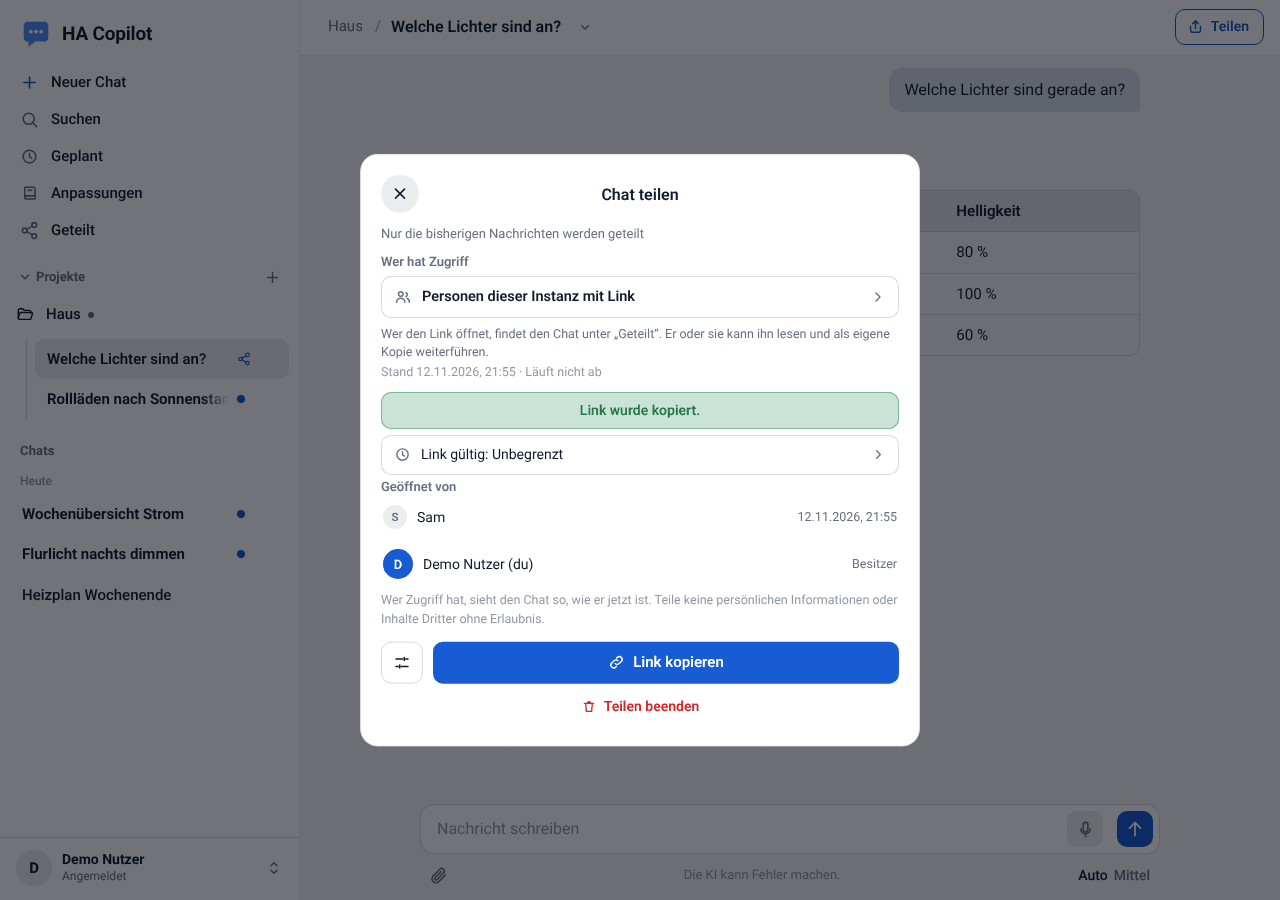
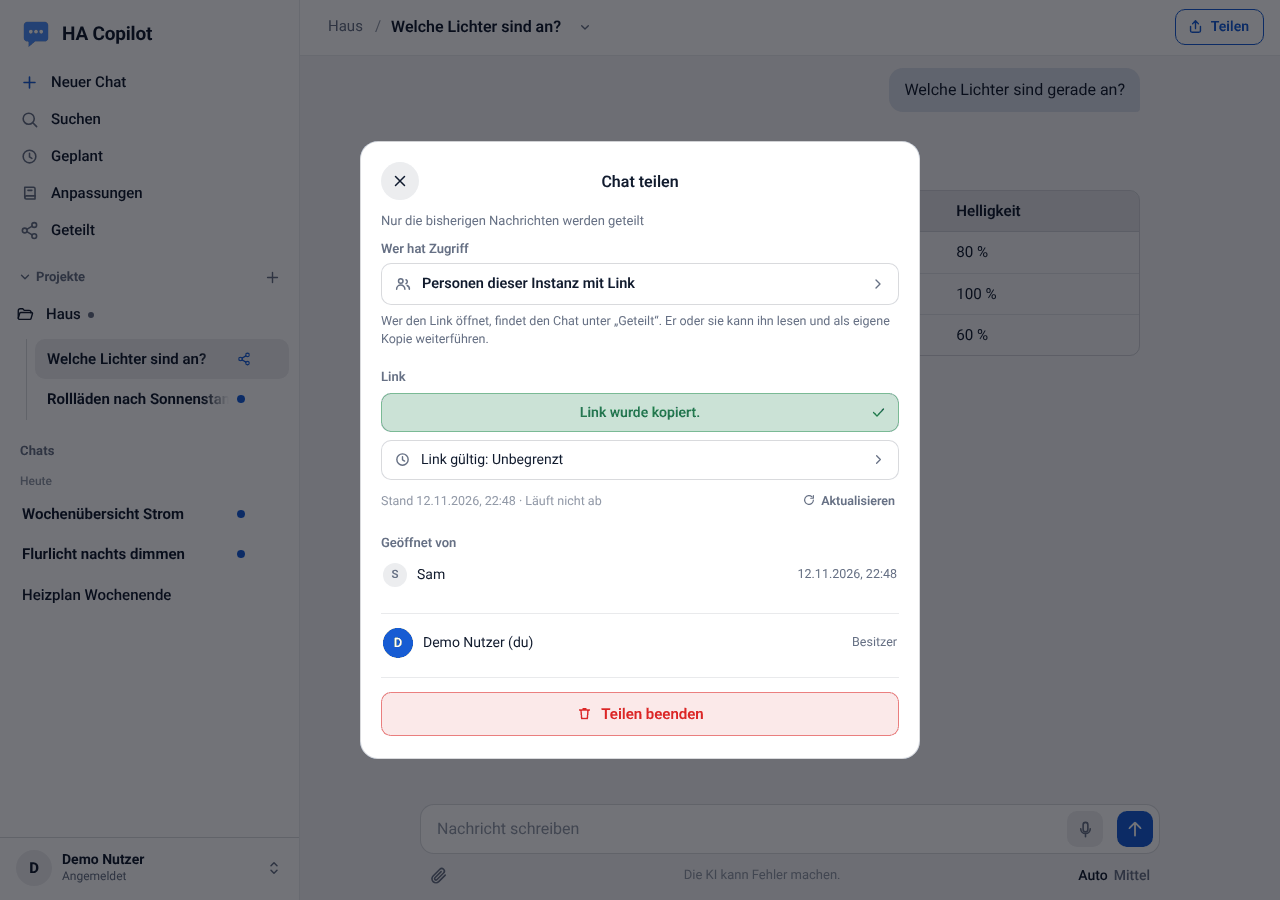
Teilen-Fenster: unterer Bereich aufgeräumt (0.57.1)
- Kopieren per Zwischenablage-Symbol im Linkfeld (Knopf "Link kopieren" und Zahnrad entfallen)
- "Aktualisieren" neben dem Stand, "Teilen beenden" als fester roter Knopf unten (mit Rückfrage)
- Mehr Abstand vor "Abrufe"/"Geöffnet von"; kein seitliches Scrollen mehr
- Docs, Changelog, "Das ist neu", Screenshot chat-teilen.png

Claude-Session: https://claude.ai/code/session_012H4RFtPYg4WGjcVxpmDwqL

Changed region(s): [[0.2812, 0.1556, 0.7188, 0.8711], [0.625, 0.5289, 0.6875, 0.5911]]

diff --git a/copilot/app/static/style.css b/copilot/app/static/style.css
@@ -1360,36 +1360,44 @@ body.voice-open { overflow: hidden; }
 .share-text b { font-size: 14.5px; font-weight: 600; }
 .share-hint { margin: 0; font-size: 12.5px; line-height: 1.4; color: var(--text-2); font-weight: 400; white-space: normal; }
 .share-access + .share-hint { margin-top: 7px; }
-.share-state { margin: 3px 0 0; font-size: 12.5px; color: var(--muted); }
-.share-urlbox { position: relative; margin-top: 10px; }
-.share-url { display: block; width: 100%; box-sizing: border-box; padding: 9px 12px; border: 1px solid var(--line); border-radius: var(--r-2); background: var(--panel-2); color: var(--text); font: 13px/1.3 var(--mono, monospace); }
-.share-urlbox .share-url { cursor: pointer; text-overflow: ellipsis; }
+.share-sec { margin-top: 20px; }
+.share-sec > .share-h { margin: 0 0 6px; }
+.share-sec .share-hint { margin: 0; }
+.share-urlbox { position: relative; }
+.share-url { display: block; width: 100%; box-sizing: border-box; padding: 10px 44px 10px 12px; border: 1px solid var(--line); border-radius: var(--r-2); background: var(--panel-2); color: var(--text); font: 13px/1.3 var(--mono, monospace); text-overflow: ellipsis; }
+.share-urlbox .share-url { cursor: pointer; }
 .share-urlbox.copied .share-url { color: transparent; }
 .share-urlbox.copied .share-url::selection { color: transparent; background: transparent; }
+.share-copy { position: absolute; top: 50%; right: 5px; z-index: 1; display: grid; place-items: center; width: 32px; height: 32px; transform: translateY(-50%); border-radius: 7px; color: var(--text-2); transition: background .15s, color .15s; }
+.share-copy:hover { background: var(--chip); color: var(--text); }
+.share-copy .icon { grid-area: 1 / 1; width: 17px; height: 17px; }
+.share-copy .icon + .icon { display: none; color: color-mix(in srgb, var(--ok, #2e9d5b) 70%, var(--text)); }
+.share-urlbox.copied .share-copy .icon:first-child { display: none; }
+.share-urlbox.copied .share-copy .icon + .icon { display: block; }
 .share-copied { position: absolute; inset: 0; display: flex; align-items: center; justify-content: center; border-radius: var(--r-2); border: 1px solid color-mix(in srgb, var(--ok, #2e9d5b) 45%, transparent); background: color-mix(in srgb, var(--ok, #2e9d5b) 20%, transparent); color: color-mix(in srgb, var(--ok, #2e9d5b) 70%, var(--text)); font-size: 14px; font-weight: 600; opacity: 0; pointer-events: none; transition: opacity .2s; }
 .share-urlbox.copied .share-copied { opacity: 1; }
-.share-expiry { display: flex; align-items: center; gap: 10px; width: 100%; box-sizing: border-box; min-height: 40px; margin-top: 6px; padding: 0 12px; border: 1px solid var(--line-2); border-radius: var(--r-2); background: var(--panel); color: var(--text); font-size: 14px; text-align: left; transition: background .15s; }
+.share-expiry { display: flex; align-items: center; gap: 10px; width: 100%; box-sizing: border-box; min-height: 40px; margin-top: 8px; padding: 0 12px; border: 1px solid var(--line-2); border-radius: var(--r-2); background: var(--panel); color: var(--text); font-size: 14px; text-align: left; transition: background .15s; }
 .share-expiry:hover { background: var(--chip); }
 .share-expiry .icon:first-child { width: 17px; height: 17px; color: var(--text-2); }
 .share-expiry span { flex: 1; }
 .share-expiry .icon:last-child { width: 15px; height: 15px; color: var(--text-2); }
-.share-viewer, .share-owner { display: flex; align-items: center; gap: 10px; padding: 4px 2px; }
-.share-owner { margin-top: 12px; }
+.share-stand { display: flex; align-items: center; justify-content: space-between; gap: 10px; margin-top: 8px; font-size: 12.5px; line-height: 1.4; color: var(--muted); }
+.share-refresh { display: inline-flex; align-items: center; gap: 5px; flex: none; padding: 4px 8px; margin-right: -4px; border-radius: 7px; color: var(--text-2); font-size: 12.5px; font-weight: 600; transition: background .15s, color .15s; }
+.share-refresh:hover { background: var(--chip); color: var(--text); }
+.share-refresh .icon { width: 14px; height: 14px; }
+.share-viewer { display: flex; align-items: center; gap: 10px; padding: 4px 2px; }
+.share-owner { display: flex; align-items: center; gap: 10px; margin-top: 22px; padding: 14px 2px 0; border-top: 1px solid var(--line); }
 .share-avatar { display: grid; place-items: center; flex: none; width: 30px; height: 30px; border-radius: 50%; background: var(--accent); color: var(--on-accent); font-size: 13px; font-weight: 600; }
 .share-avatar.small { width: 24px; height: 24px; font-size: 11.5px; background: var(--chip); color: var(--text-2); }
 .share-name { flex: 1; min-width: 0; overflow: hidden; text-overflow: ellipsis; white-space: nowrap; font-size: 14px; }
 .share-role { flex: none; font-size: 12.5px; color: var(--text-2); }
-.share-note { margin: 8px 0 0; font-size: 12.5px; line-height: 1.45; color: var(--muted); }
-.share-foot { display: flex; flex-direction: column; gap: 6px; margin-top: 8px; }
-.share-foot-row { display: flex; align-items: center; gap: 10px; }
-.share-gear { display: grid; place-items: center; flex: none; width: 42px; height: 42px; border-radius: var(--r-2); border: 1px solid var(--line-2); color: var(--text); transition: background .15s; }
-.share-gear:hover { background: var(--chip); }
-.share-gear .icon { width: 18px; height: 18px; }
-.share-main { flex: 1; min-width: 0; justify-content: center; gap: 8px; height: 42px; }
-.share-main .icon { width: 17px; height: 17px; }
-.share-end { display: inline-flex; align-items: center; justify-content: center; gap: 7px; align-self: center; height: 34px; padding: 0 12px; border-radius: var(--r-2); color: var(--danger); font-size: 14px; font-weight: 600; transition: background .15s; }
-.share-end:hover, .share-end:focus-visible { background: color-mix(in srgb, var(--danger) 12%, transparent); }
-.share-end .icon { width: 16px; height: 16px; }
+.share-note { margin: 10px 0 0; font-size: 12.5px; line-height: 1.45; color: var(--muted); }
+.share-foot { margin-top: 12px; padding-top: 14px; border-top: 1px solid var(--line); }
+.share-main { width: 100%; justify-content: center; height: 44px; }
+.share-end { display: flex; align-items: center; justify-content: center; gap: 8px; width: 100%; height: 44px; border-radius: var(--r-2); border: 1px solid color-mix(in srgb, var(--danger) 55%, transparent); background: color-mix(in srgb, var(--danger) 10%, transparent); color: var(--danger); font-size: 15px; font-weight: 600; transition: background .15s, color .15s; }
+.share-end:hover, .share-end:focus-visible { background: color-mix(in srgb, var(--danger) 18%, transparent); }
+.share-end.armed { background: var(--danger); border-color: var(--danger); color: #fff; }
+.share-end .icon { width: 17px; height: 17px; }
 /* „Geteilt“ */
 .sheet-panel.shared-panel { padding: 2px 4px 4px; margin-left: -4px; margin-right: -4px; }
 .shared-list { display: flex; flex-direction: column; gap: 2px; }

diff --git a/copilot/app/static/app.js b/copilot/app/static/app.js
@@ -6401,15 +6401,20 @@ async function drawSharePanel(body, chat, view = { open: false }) {
       nodes.push(node("p", "share-hint", tr("Niemand sonst sieht diesen Chat. Wähle oben, wie du ihn teilen willst.")));
     } else {
       nodes.push(node("p", "share-hint", current.hint));
-      const until = shared.expires_at ? tr("Gültig bis {0}", exactTime(shared.expires_at)) : tr("Läuft nicht ab");
-      nodes.push(node("p", "share-state", `${tr("Stand {0}", exactTime(shared.taken_at))} · ${until}`));
-      // Link: Ein Klick kopiert ihn und meldet es im Feld.
+      // Link: Ein Klick auf das Feld oder das Symbol kopiert ihn und meldet es im Feld.
+      const link = node("section", "share-sec");
+      link.append(node("p", "share-h", tr("Link")));
       const box = node("div", "share-urlbox");
       const field = node("input", "share-url");
       field.type = "text";
       field.readOnly = true;
       field.value = shareLinkOf(shared);
       field.setAttribute("aria-label", tr("Link"));
+      const copy = node("button", "share-copy");
+      copy.type = "button";
+      copy.setAttribute("aria-label", tr("Link kopieren"));
+      copy.title = tr("Link kopieren");
+      copy.append(icon("copy"), icon("check"));
       const done = node("span", "share-copied", tr("Link wurde kopiert."));
       done.setAttribute("role", "status");
       let hideTimer = 0;
@@ -6423,16 +6428,25 @@ async function drawSharePanel(body, chat, view = { open: false }) {
         hideTimer = setTimeout(() => box.classList.remove("copied"), 1800);
       };
       field.addEventListener("click", copyLink);
-      box.append(field, done);
-      body.copyLink = copyLink;
+      copy.addEventListener("click", copyLink);
+      box.append(field, copy, done);
       const expiry = node("button", "share-expiry");
       expiry.type = "button";
       expiry.setAttribute("aria-haspopup", "menu");
       expiry.append(icon("clock"), node("span", "", tr("Link gültig: {0}", expiryLabel(shared.expires_at))), icon("chevron"));
       expiry.addEventListener("click", () => pickExpiry(expiry, data));
-      nodes.push(box, expiry);
+      const until = shared.expires_at ? tr("Gültig bis {0}", exactTime(shared.expires_at)) : tr("Läuft nicht ab");
+      const stand = node("div", "share-stand");
+      const refresh = node("button", "share-refresh");
+      refresh.type = "button";
+      refresh.append(icon("refresh"), node("span", "", tr("Aktualisieren")));
+      refresh.title = tr("Stand aktualisieren");
+      refresh.addEventListener("click", () => run(() => post({ mode: shared.mode }, "/refresh"), tr("Stand aktualisiert.")));
+      stand.append(node("span", "", `${tr("Stand {0}", exactTime(shared.taken_at))} · ${until}`), refresh);
+      link.append(box, expiry, stand);
+      nodes.push(link);
       // Wer hat den Link geöffnet?
-      const seen = node("div", "share-seen");
+      const seen = node("section", "share-sec share-seen");
       if (level === "public") {
         seen.append(node("p", "share-h", tr("Abrufe")), node("p", "share-hint", shared.opens ? tr("Der Link wurde {0} Mal abgerufen.", shared.opens) : tr("Der Link wurde noch nicht abgerufen.")));
       } else {
@@ -6456,40 +6470,30 @@ async function drawSharePanel(body, chat, view = { open: false }) {
     scroll.append(...nodes);
 
     const foot = node("div", "share-foot");
-    const row = node("div", "share-foot-row");
     if (shared) {
-      const gear = node("button", "share-gear");
-      gear.type = "button";
-      gear.setAttribute("aria-label", tr("Einstellungen zum Teilen"));
-      gear.title = tr("Einstellungen zum Teilen");
-      gear.append(icon("sliders"));
-      gear.addEventListener("click", async () => {
-        const choice = await openPopover(gear, [
-          { value: "refresh", icon: "refresh", label: tr("Stand aktualisieren") },
-          { value: "expiry", icon: "clock", label: tr("Gültigkeit des Links …") },
-        ]);
-        if (choice === "refresh") await run(() => post({ mode: shared.mode }, "/refresh"), tr("Stand aktualisiert."));
-        else if (choice === "expiry") await pickExpiry(gear, data);
-      });
-      row.append(gear);
-    }
-    const main = node("button", "pill primary share-main");
-    main.type = "button";
-    if (shared) {
-      main.append(icon("link"), node("span", "", tr("Link kopieren")));
-      main.addEventListener("click", () => body.copyLink?.());
-    } else {
-      main.append(node("span", "", tr("Fertig")));
-      main.addEventListener("click", () => closeSheet(true));
-    }
-    row.append(main);
-    foot.append(row);
-    if (shared) {
+      // Teilen beenden: Beim ersten Klick fragt der Knopf nach, beim zweiten (innerhalb von 4 Sekunden) beendet er.
       const end = node("button", "share-end");
       end.type = "button";
-      end.append(icon("trash"), node("span", "", tr("Teilen beenden")));
-      end.addEventListener("click", () => run(async () => { if (data.public) await del("public"); if (data.instance) await del("instance"); }, tr("Nicht mehr geteilt.")));
+      const label = node("span", "", tr("Teilen beenden"));
+      end.append(icon("trash"), label);
+      let armed = 0;
+      end.addEventListener("click", () => {
+        if (!armed) {
+          end.classList.add("armed");
+          label.textContent = tr("Wirklich beenden?");
+          armed = setTimeout(() => { armed = 0; end.classList.remove("armed"); label.textContent = tr("Teilen beenden"); }, 4000);
+          return;
+        }
+        clearTimeout(armed);
+        run(async () => { if (data.public) await del("public"); if (data.instance) await del("instance"); }, tr("Nicht mehr geteilt."));
+      });
       foot.append(end);
+    } else {
+      const main = node("button", "pill primary share-main");
+      main.type = "button";
+      main.append(node("span", "", tr("Fertig")));
+      main.addEventListener("click", () => closeSheet(true));
+      foot.append(main);
     }
     body.replaceChildren(scroll, foot);
   }

diff --git a/copilot/DOCS.md b/copilot/DOCS.md
@@ -2,7 +2,7 @@
 
 Privater KI-Chat für Home Assistant. Jedes Profil hat eigene Chats, die für andere Profile unsichtbar sind.
 
-**Stand: 0.57.0.** Was in welcher Version neu ist, steht im Reiter „Änderungsprotokoll“.
+**Stand: 0.57.1.** Was in welcher Version neu ist, steht im Reiter „Änderungsprotokoll“.
 
 **Schnellzugriff (Dokumentation im Repository, mit Bildern):**
 [Installation](https://github.com/dominikramachers/HA-Copilot/blob/main/docs/installation.md) ·
@@ -498,7 +498,7 @@ Das Fenster **Chat teilen** (ab 0.57.0 kompakter, die Knöpfe unten bleiben beim
 - **Personen dieser Instanz mit Link:** Der Link (`<public_base_url>/?share=<Code>`; ohne Domain-Zugang die Adresse der Oberfläche) funktioniert nur für angemeldete Personen. **Wer ihn öffnet**, bekommt den Chat unter **Geteilt** (Abschnitt „Mit mir geteilt“, mit „Stand vom …“), kann ihn lesen und **als Kopie weiterführen**. Ohne Link sieht niemand den Chat. Die Person kann ihn mit dem roten **Mülleimer** (beim Darüberfahren) wieder aus ihrer Liste entfernen; der Link holt ihn zurück. Wer den Link angeklickt hat, steht beim Besitzer im Fenster unter **Geöffnet von** (Name, zuletzt geöffnet, Anzahl). Wird der Link nicht über die Adresse geöffnet (zum Beispiel in Home Assistant), hilft in **Geteilt** der Knopf **Link einfügen** (Link oder nur der Code). Die Kopie ist ein eigener Chat der Person, der vom Original unabhängig ist; Aktionen darin fragen immer erst nach, weil der Inhalt von jemand anderem stammt.
 - **Jede Person mit dem Link** (nur mit `chat.sharing: public` und gesetzter `domain.public_base_url`; sonst bleibt die Zeile sichtbar, ist aber ausgegraut und sagt, was fehlt): ein langer, nicht erratbarer Link (`…/s/<43 Zeichen>`), den jede Person ohne Anmeldung öffnen kann, nur zum Lesen. Das Fenster zählt die **Abrufe** (jedes Laden des Inhalts; wer es war, ist nicht bekannt). Er hängt nur an der Domain-Seite, nicht an Home Assistant. Die Seite wird mit der strengen Content-Security-Policy ausgeliefert, ist für Suchmaschinen gesperrt (`noindex`), wird nicht zwischengespeichert, und Anfragen sind je Adresse begrenzt. Ein falscher, beendeter oder abgelaufener Link zeigt eine Meldung. Leite den Link nur an Menschen weiter, denen du den Inhalt zeigen willst: Wer ihn hat, liest alles in dem Schnappschuss.
 
-Bei geteiltem Chat zeigt das Fenster darunter den **Link** (ein Klick darauf kopiert ihn und meldet „Link wurde kopiert.“ im Feld; derselbe Zweck hat der Knopf **Link kopieren**), die Zeile **Link gültig: …** (Klick: 7 Tage, 30 Tage oder unbegrenzt; Standard 30 Tage beim öffentlichen Link, unbegrenzt in der Instanz; eine neue Gültigkeit nimmt auch einen neuen Schnappschuss) und den Stand. Das **Zahnrad** bietet **Stand aktualisieren** (gleicher Link, gleiche Personen) und **Gültigkeit des Links …**, und **Teilen beenden** (rot) nimmt alle Freigaben des Chats zurück. Der Wechsel zwischen den beiden Wegen erzeugt einen neuen Link; der alte gilt dann nicht mehr. Eine Begrenzung der Abrufe je Link gibt es bewusst nicht. Eine Freigabe ist ein **Schnappschuss**: Der Text der Nachrichten zum Zeitpunkt des Teilens, ohne Anhänge, Protokoll der Werkzeuge und Gedächtnis-Hinweise. Spätere Nachrichten sind nicht enthalten.
+Bei geteiltem Chat zeigt das Fenster darunter den **Link** in einem Feld; das Symbol **Zwischenablage** rechts im Feld (oder ein Klick auf den Link) kopiert ihn und meldet „Link wurde kopiert.“ im Feld. Darunter steht die Zeile **Link gültig: …** (Klick: 7 Tage, 30 Tage oder unbegrenzt; Standard 30 Tage beim öffentlichen Link, unbegrenzt in der Instanz; eine neue Gültigkeit nimmt auch einen neuen Schnappschuss), dann der Stand mit **Aktualisieren** (gleicher Link, gleiche Personen, neuer Schnappschuss) und mit Abstand **Geöffnet von** beziehungsweise **Abrufe**. Ganz unten steht, immer sichtbar, der rote Knopf **Teilen beenden**: Der erste Klick fragt „Wirklich beenden?“, der zweite nimmt alle Freigaben des Chats zurück. Der Wechsel zwischen den beiden Wegen erzeugt einen neuen Link; der alte gilt dann nicht mehr. Eine Begrenzung der Abrufe je Link gibt es bewusst nicht. Eine Freigabe ist ein **Schnappschuss**: Der Text der Nachrichten zum Zeitpunkt des Teilens, ohne Anhänge, Protokoll der Werkzeuge und Gedächtnis-Hinweise. Spätere Nachrichten sind nicht enthalten.
 
 **Wo man Geteiltes findet:** In der Chatliste trägt ein geteilter Chat ein kleines **Teilen-Symbol** (`GET /api/chats` liefert dafür das Feld `shared`). In der Seitenleiste steht der Eintrag **Geteilt** immer (solange Teilen erlaubt ist). Er listet **Mit mir geteilt** (Person, Stand, roter Mülleimer zum Entfernen; Klick öffnet den Lesemodus) und **Von mir geteilt** (mit Projekt und Weg; Klick öffnet den Chat). Hat dir niemand etwas geteilt, steht dort nur „Es wurde nichts mit dir geteilt.“ Er ist bewusst allgemein benannt, damit später auch andere teilbare Dinge (z. B. Artefakte) dort stehen können. Technik: Tabelle `share_access` (wer welchen Link geöffnet hat, Datenbankschema 24), Spalte `chat_shares.opens`; Schnittstellen `POST /api/shared/open` (Link oder Code), `DELETE /api/shared/{id}`, `GET /api/shared` (nur geöffnete), `GET /api/shared/{id}` und `…/copy` nur mit geöffnetem Link.
 

diff --git a/copilot/CHANGELOG.md b/copilot/CHANGELOG.md
@@ -1,5 +1,15 @@
 # Änderungen
 
+## 0.57.1
+Teilen-Fenster: unterer Bereich aufgeräumt. Keine Änderung an Daten oder Schnittstellen.
+- **Kopieren im Linkfeld.** Der Knopf **Link kopieren** und das Zahnrad entfallen. Rechts im Linkfeld sitzt ein Zwischenablage-Symbol (`.share-copy`, wird kurz zum Haken); ein Klick auf den Link kopiert weiterhin, beides meldet „Link wurde kopiert.“ im Feld. Die Auswahl im Feld wird danach aufgehoben, damit der Text nicht durch die grüne Meldung scheint.
+- **Aktualisieren** steht als eigener Knopf neben der Zeile „Stand …“ (`POST /api/chats/{id}/share/refresh`, wie bisher), nicht mehr im Zahnrad-Menü.
+- **Teilen beenden** ist der feste, rote Knopf unten im Fenster (ersetzt „Link kopieren“). Er fragt einmal nach („Wirklich beenden?“, fällt nach 4 Sekunden zurück). Ist nichts geteilt, steht dort **Fertig**.
+- **Mehr Abstand** zwischen Gültigkeit und **Abrufe** beziehungsweise **Geöffnet von** (`.share-sec`, 20 px), ebenso vor der Zeile des Besitzers.
+- **Kein seitliches Scrollen** im scrollenden Mittelteil (`.share-refresh` ragte 4 px über den Rand).
+- **Texte:** neu „Aktualisieren“ und „Wirklich beenden?“ (`en-ui.json`); „Einstellungen zum Teilen“ und „Gültigkeit des Links …“ entfallen.
+- **Prüfung:** Browserprüfung (Playwright) auf Computer und Handy, hell und dunkel: Kopieren, Gültigkeit, Aktualisieren, Beenden mit Rückfrage, kein Überlauf. Screenshot `chat-teilen.png` neu.
+
 ## 0.57.0
 Teilen überarbeitet: Freigaben in der Instanz gibt es nur noch mit Link, der Besitzer sieht, wer ihn geöffnet hat, und das Fenster ist kompakter. Datenbankschema 24 (nur Ergänzungen).
 - **Freigabe in der Instanz nur mit Link.** Bisher sah jede angemeldete Person einen in der Instanz geteilten Chat. Jetzt gibt es einen Link (`<public_base_url>/?share=<Code>`, ohne Domain die Adresse der Oberfläche; der Code ist der 43 Zeichen lange Wert `chat_shares.token`). **Wer ihn öffnet** (Adresse mit `?share=`, wird danach aus der Adresszeile entfernt), bekommt den Chat unter **Geteilt** (Tabelle `share_access`: `share_id`, `profile_id`, `first_at`, `last_at`, `opens`), mit „Stand vom …“ und einem roten **Mülleimer** zum Entfernen (`DELETE /api/shared/{id}`; der Link holt ihn zurück). Lesen (`GET /api/shared/{id}`) und Kopieren (`…/copy`) gehen nur mit geöffnetem Link oder als Besitzer. `POST /api/shared/open` nimmt Link oder Code. In **Geteilt** gibt es **Link einfügen** für Fälle, in denen die Adresse nicht greift (zum Beispiel Home Assistant). Nach dem Update gilt ein früher in der Instanz geteilter Chat nur noch für Personen, die seinen Link öffnen (Link im Teilen-Fenster ansehen und weitergeben).

diff --git a/docs/funktionen.md b/docs/funktionen.md
@@ -15,7 +15,7 @@ Ein Überblick über alles, was HA Copilot kann, mit den Einstellungen, die dazu
 ![Inkognito-Chat](screenshots/inkognito.png)
 
 - **Kopfzeile wie in Claude:** Über dem Chat steht **Projekt / Chatname ▾**: Klick auf den Namen = umbenennen, Pfeil = Chat-Menü, rechts der Knopf **Teilen**.
-- **Chats teilen:** Im Fenster **Chat teilen** wählst du unter **Wer hat Zugriff**: einen Link nur für Personen dieser Instanz (wer ihn öffnet, findet den Chat unter **Geteilt**, du siehst unter **Geöffnet von**, wer das war) oder einen Link für jede Person (ohne Anmeldung, nur lesen; `chat.sharing: public`). Ein Klick auf den Link kopiert ihn, die Gültigkeit (7 Tage, 30 Tage, unbegrenzt) stellst du direkt im Fenster ein, **Teilen beenden** nimmt alles zurück. Geteilte Chats tragen in der Liste ein kleines Symbol; **Geteilt** steht immer in der Seitenleiste (mit mir und von mir, mit rotem Mülleimer zum Entfernen). Geteilt wird ein Schnappschuss ohne Anhänge und Protokoll.
+- **Chats teilen:** Im Fenster **Chat teilen** wählst du unter **Wer hat Zugriff**: einen Link nur für Personen dieser Instanz (wer ihn öffnet, findet den Chat unter **Geteilt**, du siehst unter **Geöffnet von**, wer das war) oder einen Link für jede Person (ohne Anmeldung, nur lesen; `chat.sharing: public`). Das Zwischenablage-Symbol im Linkfeld kopiert ihn, die Gültigkeit (7 Tage, 30 Tage, unbegrenzt) stellst du direkt im Fenster ein, der rote Knopf **Teilen beenden** unten nimmt alles zurück (mit Rückfrage). Geteilte Chats tragen in der Liste ein kleines Symbol; **Geteilt** steht immer in der Seitenleiste (mit mir und von mir, mit rotem Mülleimer zum Entfernen). Geteilt wird ein Schnappschuss ohne Anhänge und Protokoll.
 - **Deep Research** (optional, Standard aus): Im Menü unter dem Eingabefeld lässt sich für die nächste Nachricht eine **Tiefenrecherche** einschalten: Die KI plant, sucht in mehreren Runden im Web, gleicht die Funde ab und schreibt einen Bericht mit geprüfter Quellenliste. Vorher fragt der Chat nach, weil ein Lauf mehrere Minuten dauert und viel Kontingent braucht (`chat.research_enabled`, `chat.research_daily_limit`).
 | Teilen-Fenster | Öffentliche Seite | „Geteilt“ einer anderen Person |
 |---|---|---|
